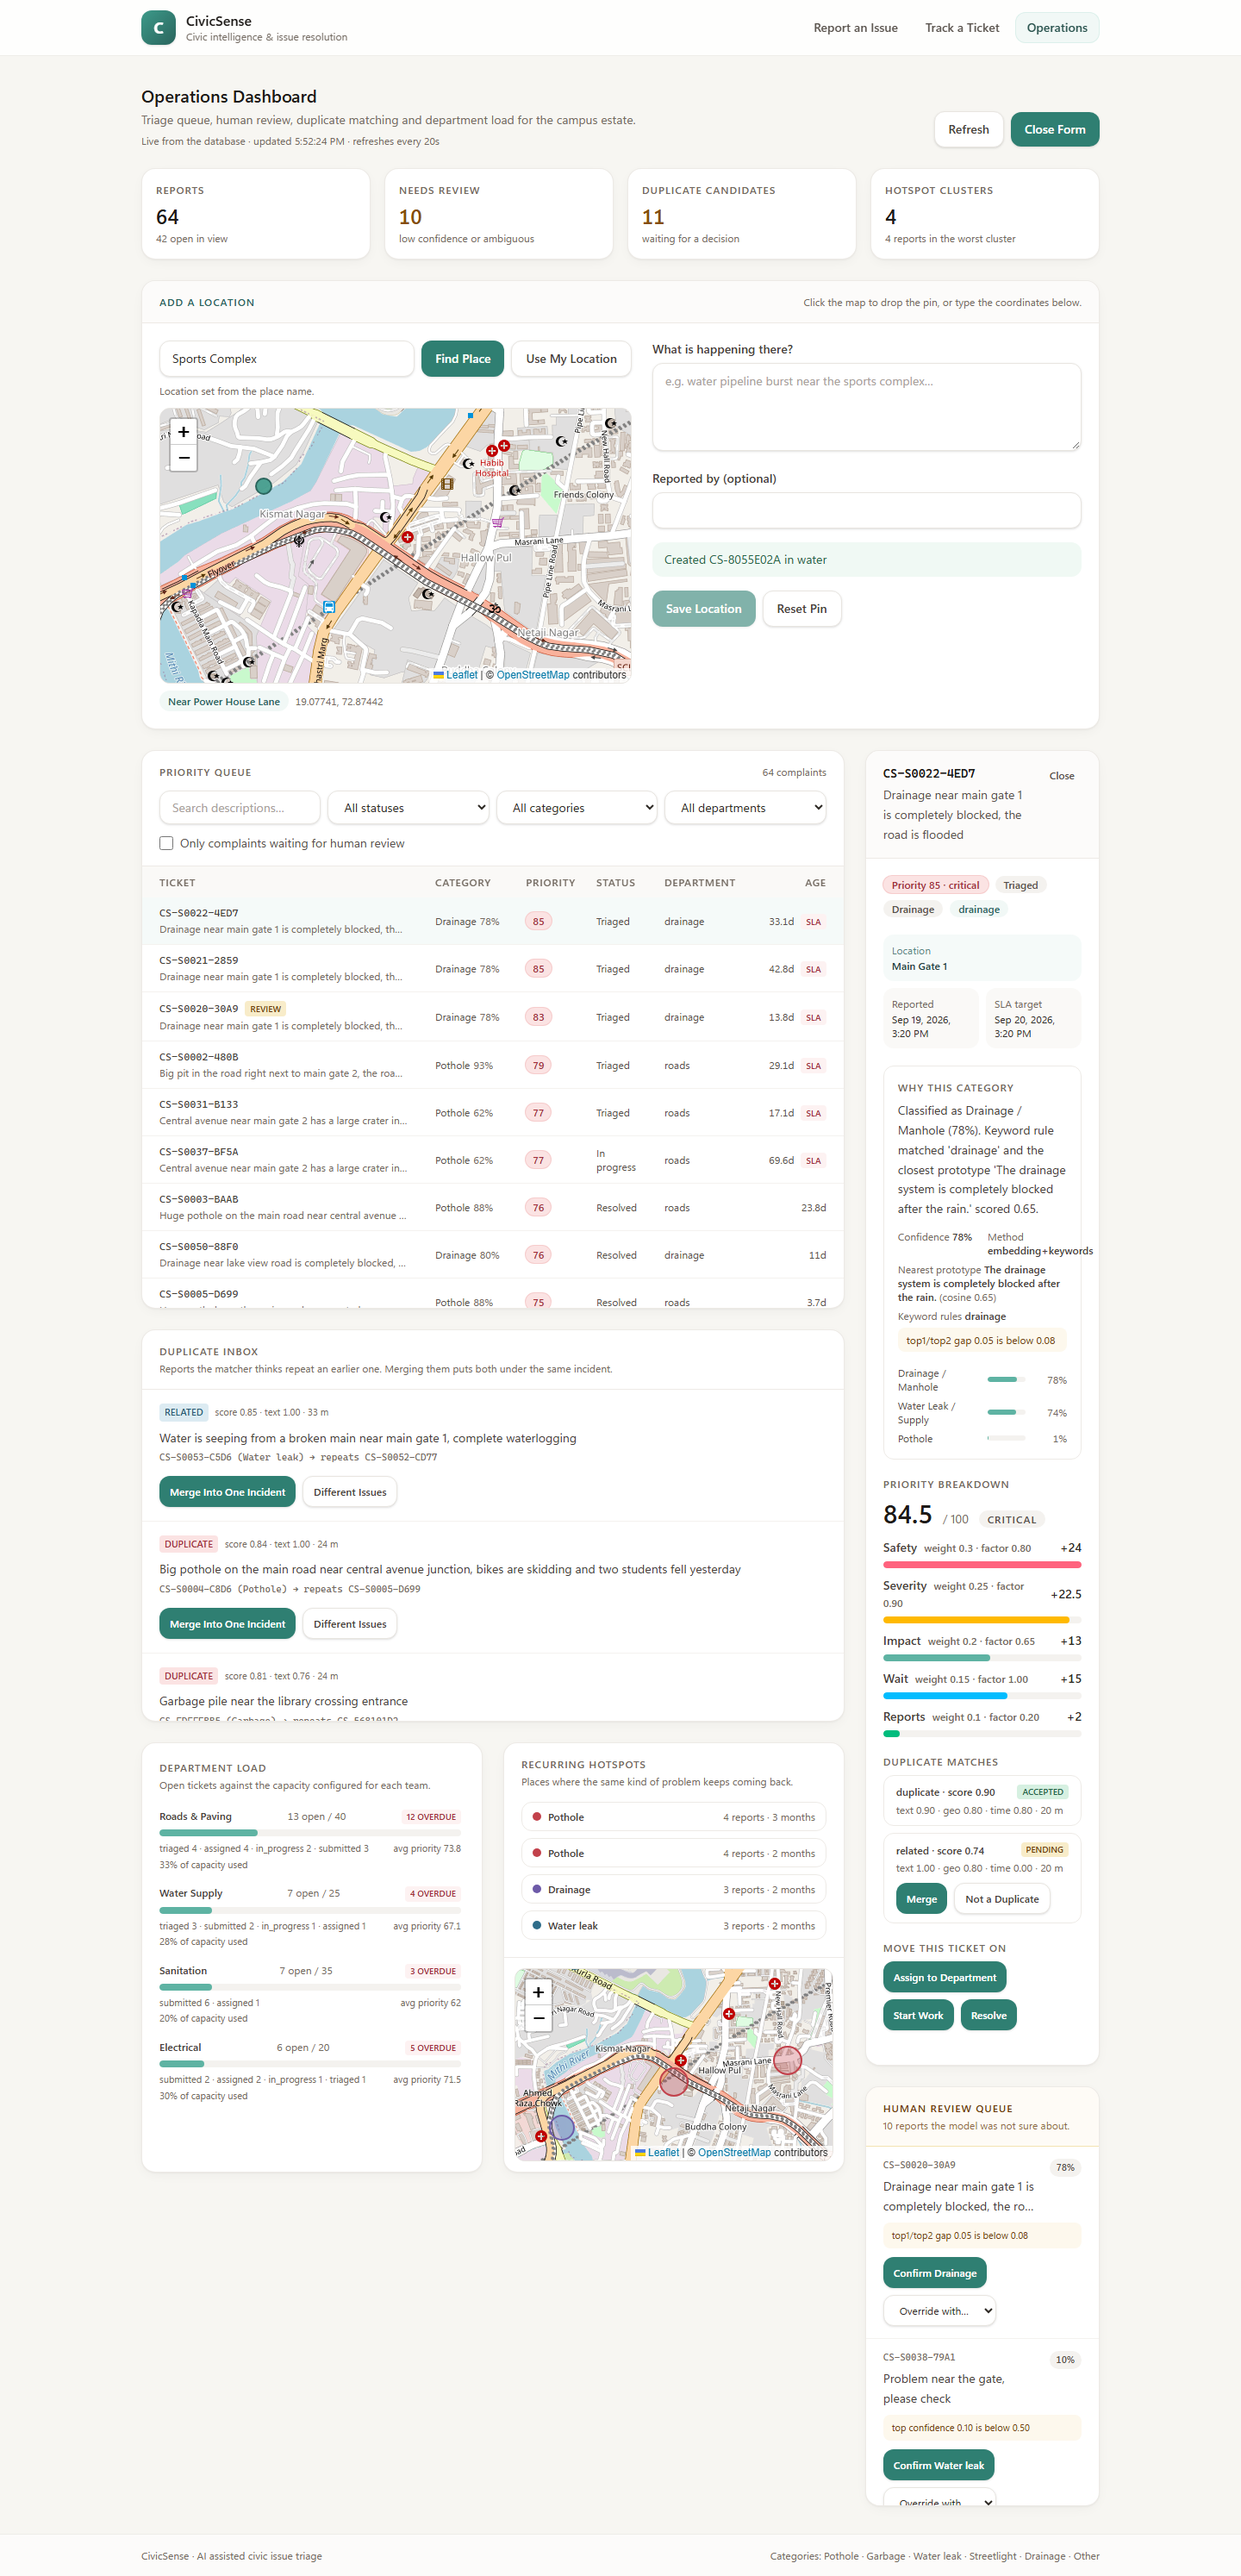
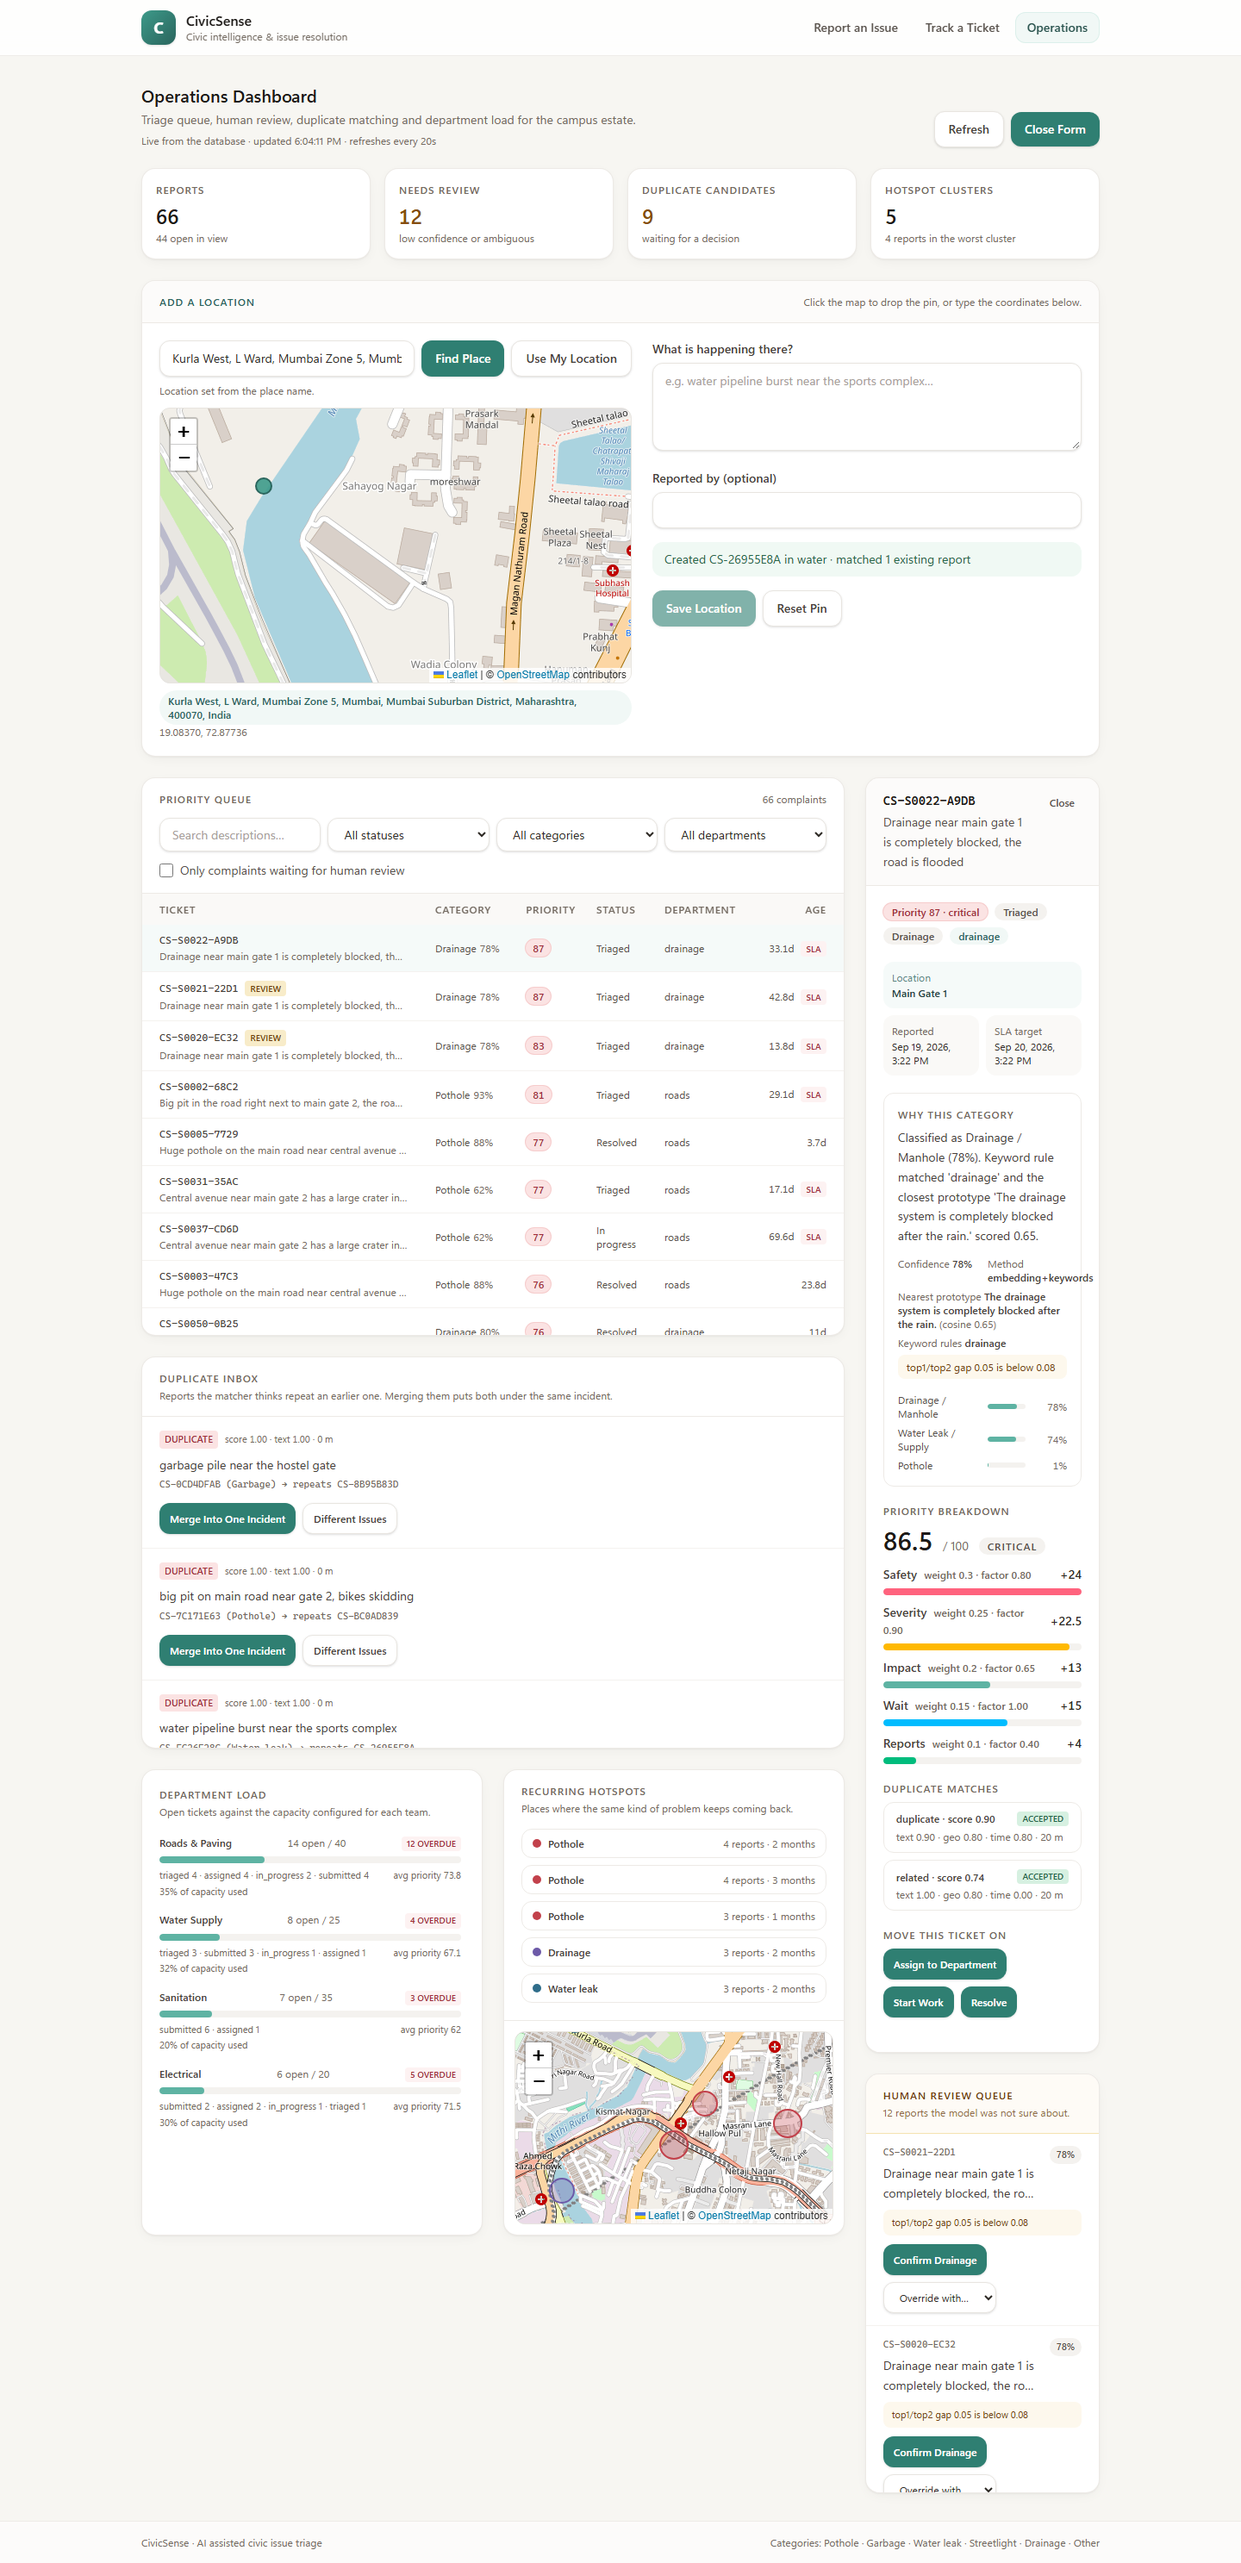
Put the detected location in the box and move the map to it
The location field only ever held what a person typed, so the position
the browser detected never reached it, and the map stayed wherever it
happened to be while the pin jumped somewhere else entirely.

- The map now takes a focus point and flies to it whenever the place
  changes outside a click, so a search or a device position moves the
  whole map to the spot
- The search box always shows the place the current pin stands for: the
  detected position is written into it, a search result replaces it with
  the resolved name, and clicking the map names that spot too
- The named place is stored with the report, so the dashboard shows
  "Main Gate 2" rather than a pair of numbers

The browser check now proves all three: the name lands in the box, the
map centre moves to within a pixel of the pin, and the device position
arrives in the field.

diff --git a/frontend/src/components/LocationPicker.tsx b/frontend/src/components/LocationPicker.tsx
@@ -22,6 +22,12 @@ const GEOLOCATION_MESSAGES: Record<number, string> = {
   3: "Finding your position took too long. Try again or pick a point on the map.",
 };
 
+/** "Near Library Crossing" reads better as a chip than in the search box. */
+function forBox(label: string | null): string | null {
+  if (!label) return null;
+  return label.replace(/^Near\s+/i, "");
+}
+
 export default function LocationPicker({ value, onChange, onLabelChange }: Props) {
   // Held in a ref so the lookup effect does not re-run when the parent
   // passes a new callback on every render.
@@ -35,8 +41,11 @@ export default function LocationPicker({ value, onChange, onLabelChange }: Props
   const [error, setError] = useState<string | null>(null);
   const [busy, setBusy] = useState(false);
   const [locating, setLocating] = useState(false);
+  // The point the map should move to, set whenever the place changes outside
+  // a map click.
+  const [focus, setFocus] = useState<LatLng | null>(null);
 
-  // When the pin moves on the map, describe the new spot in words.
+  // Name the current point, and keep the search box in step with it.
   useEffect(() => {
     let active = true;
     api
@@ -45,6 +54,7 @@ export default function LocationPicker({ value, onChange, onLabelChange }: Props
         if (!active) return;
         setPlace(result.label);
         labelCallback.current?.(result.label);
+        setQuery(forBox(result.label) ?? "");
       })
       .catch(() => {
         if (!active) return;
@@ -55,6 +65,16 @@ export default function LocationPicker({ value, onChange, onLabelChange }: Props
       active = false;
     };
   }, [value.lat, value.lng]);
+
+  function selectPlace(label: string, point: LatLng, message: string) {
+    onChange(point);
+    setFocus(point);
+    setPlace(label);
+    setQuery(forBox(label) ?? label);
+    labelCallback.current?.(label);
+    setCandidates([]);
+    setStatus(message);
+  }
 
   async function findPlace() {
     const text = query.trim();
@@ -74,10 +94,9 @@ export default function LocationPicker({ value, onChange, onLabelChange }: Props
       }
       setCandidates(result.candidates);
       const best = result.candidates[0];
-      onChange({ lat: best.lat, lng: best.lng });
-      setPlace(best.label);
-      labelCallback.current?.(best.label);
-      setStatus(
+      selectPlace(
+        best.label,
+        { lat: best.lat, lng: best.lng },
         result.candidates.length > 1
           ? `${result.candidates.length} matches found, pick one below.`
           : "Location set from the place name.",
@@ -105,12 +124,9 @@ export default function LocationPicker({ value, onChange, onLabelChange }: Props
           lng: Number(position.coords.longitude.toFixed(6)),
         };
         onChange(next);
+        setFocus(next);
         setCandidates([]);
         setStatus("Location taken from your device.");
-        api
-          .reversePlace(next.lat, next.lng)
-          .then((result) => setPlace(result.label))
-          .catch(() => setPlace(null));
       },
       (geoError) => {
         setLocating(false);
@@ -171,12 +187,13 @@ export default function LocationPicker({ value, onChange, onLabelChange }: Props
             <li key={`${candidate.label}-${candidate.lat}`}>
               <button
                 type="button"
-                onClick={() => {
-                  onChange({ lat: candidate.lat, lng: candidate.lng });
-                  setPlace(candidate.label);
-                  labelCallback.current?.(candidate.label);
-                  setCandidates([]);
-                }}
+                onClick={() =>
+                  selectPlace(
+                    candidate.label,
+                    { lat: candidate.lat, lng: candidate.lng },
+                    "Location set from the place name.",
+                  )
+                }
                 className="rounded-full border border-slate-200 bg-white px-3 py-1.5 text-xs font-medium text-slate-700 transition-colors duration-150 hover:border-brand-300 hover:bg-brand-50 hover:text-brand-800"
               >
                 {candidate.label}
@@ -197,7 +214,7 @@ export default function LocationPicker({ value, onChange, onLabelChange }: Props
       </p>
 
       <div className="mt-3">
-        <MapPicker value={value} onChange={onChange} />
+        <MapPicker value={value} onChange={onChange} focus={focus} />
       </div>
 
       <p className="mt-2 flex flex-wrap items-center gap-x-2 text-xs text-slate-500">

diff --git a/frontend/src/components/MapPicker.tsx b/frontend/src/components/MapPicker.tsx
@@ -1,4 +1,11 @@
-import { CircleMarker, MapContainer, TileLayer, useMapEvents } from "react-leaflet";
+import { useEffect } from "react";
+import {
+  CircleMarker,
+  MapContainer,
+  TileLayer,
+  useMap,
+  useMapEvents,
+} from "react-leaflet";
 
 export interface LatLng {
   lat: number;
@@ -9,18 +16,37 @@ interface MapPickerProps {
   value: LatLng;
   onChange: (value: LatLng) => void;
   center?: LatLng;
+  /** When set, the map moves to this point - used when a place was found. */
+  focus?: LatLng | null;
 }
 
 function ClickHandler({ onChange }: { onChange: (value: LatLng) => void }) {
   useMapEvents({
     click(event) {
-      onChange({ lat: Number(event.latlng.lat.toFixed(6)), lng: Number(event.latlng.lng.toFixed(6)) });
+      onChange({
+        lat: Number(event.latlng.lat.toFixed(6)),
+        lng: Number(event.latlng.lng.toFixed(6)),
+      });
     },
   });
   return null;
 }
 
-export default function MapPicker({ value, onChange, center }: MapPickerProps) {
+function FlyTo({ point }: { point: LatLng }) {
+  const map = useMap();
+  useEffect(() => {
+    const zoom = Math.max(map.getZoom(), 17);
+    map.flyTo([point.lat, point.lng], zoom, { duration: 0.8 });
+  }, [map, point.lat, point.lng]);
+  return null;
+}
+
+export default function MapPicker({
+  value,
+  onChange,
+  center,
+  focus,
+}: MapPickerProps) {
   const initial = center ?? value;
   return (
     <MapContainer
@@ -34,6 +60,7 @@ export default function MapPicker({ value, onChange, center }: MapPickerProps) {
         url="https://{s}.tile.openstreetmap.org/{z}/{x}/{y}.png"
       />
       <ClickHandler onChange={onChange} />
+      {focus ? <FlyTo point={focus} /> : null}
       <CircleMarker
         center={[value.lat, value.lng]}
         radius={9}

diff --git a/README.md b/README.md
@@ -30,9 +30,11 @@ model is not confident about for a human to check.
 | | |
 | --- | --- |
 | ![Report an issue](frontend/scripts/shot-report.png) | ![Operations dashboard](frontend/scripts/shot-dashboard.png) |
-| Report an issue — map, photo and coordinates | Operations dashboard — queue, review and workload |
-| ![Admin sign in](frontend/scripts/shot-login.png) | ![Track a ticket](frontend/scripts/shot-ticket.png) |
-| Admin sign in | Track a ticket |
+| Report an issue — place name, device location or a pin on the map | Operations dashboard — queue, review and workload |
+| ![Location lookup](frontend/scripts/shot-location.png) | ![Admin sign in](frontend/scripts/shot-login.png) |
+| The device position lands in the box and the map moves there | Admin sign in |
+| ![Track a ticket](frontend/scripts/shot-ticket.png) | |
+| Track a ticket | |
 
 ## Tech stack
 
